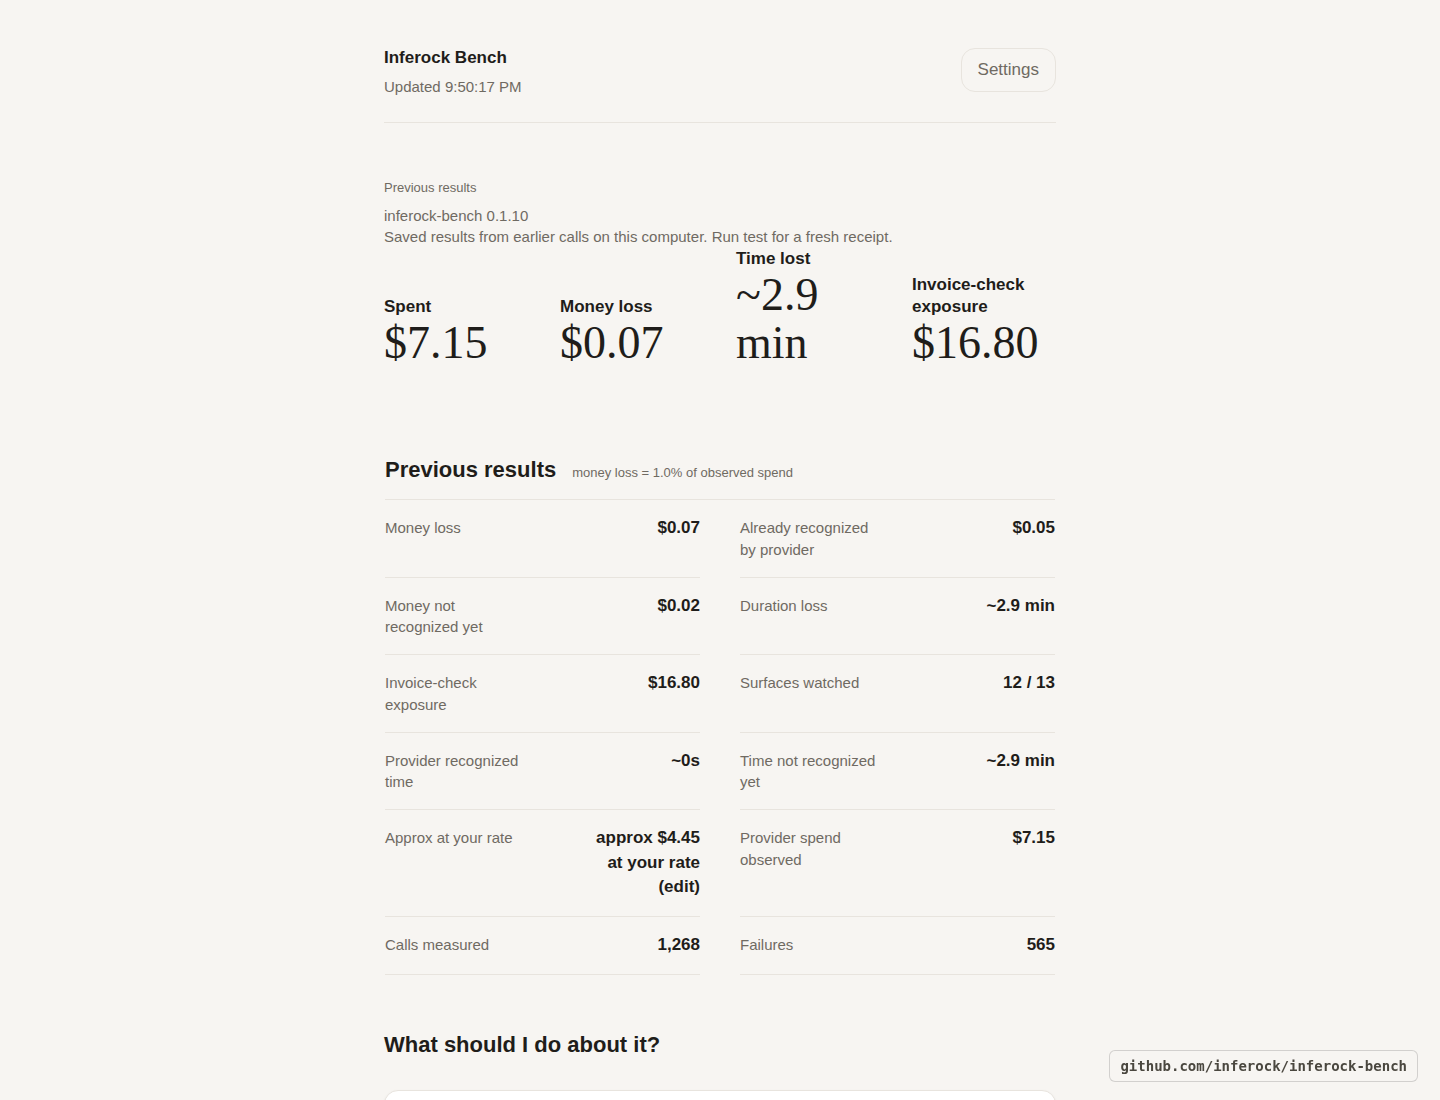
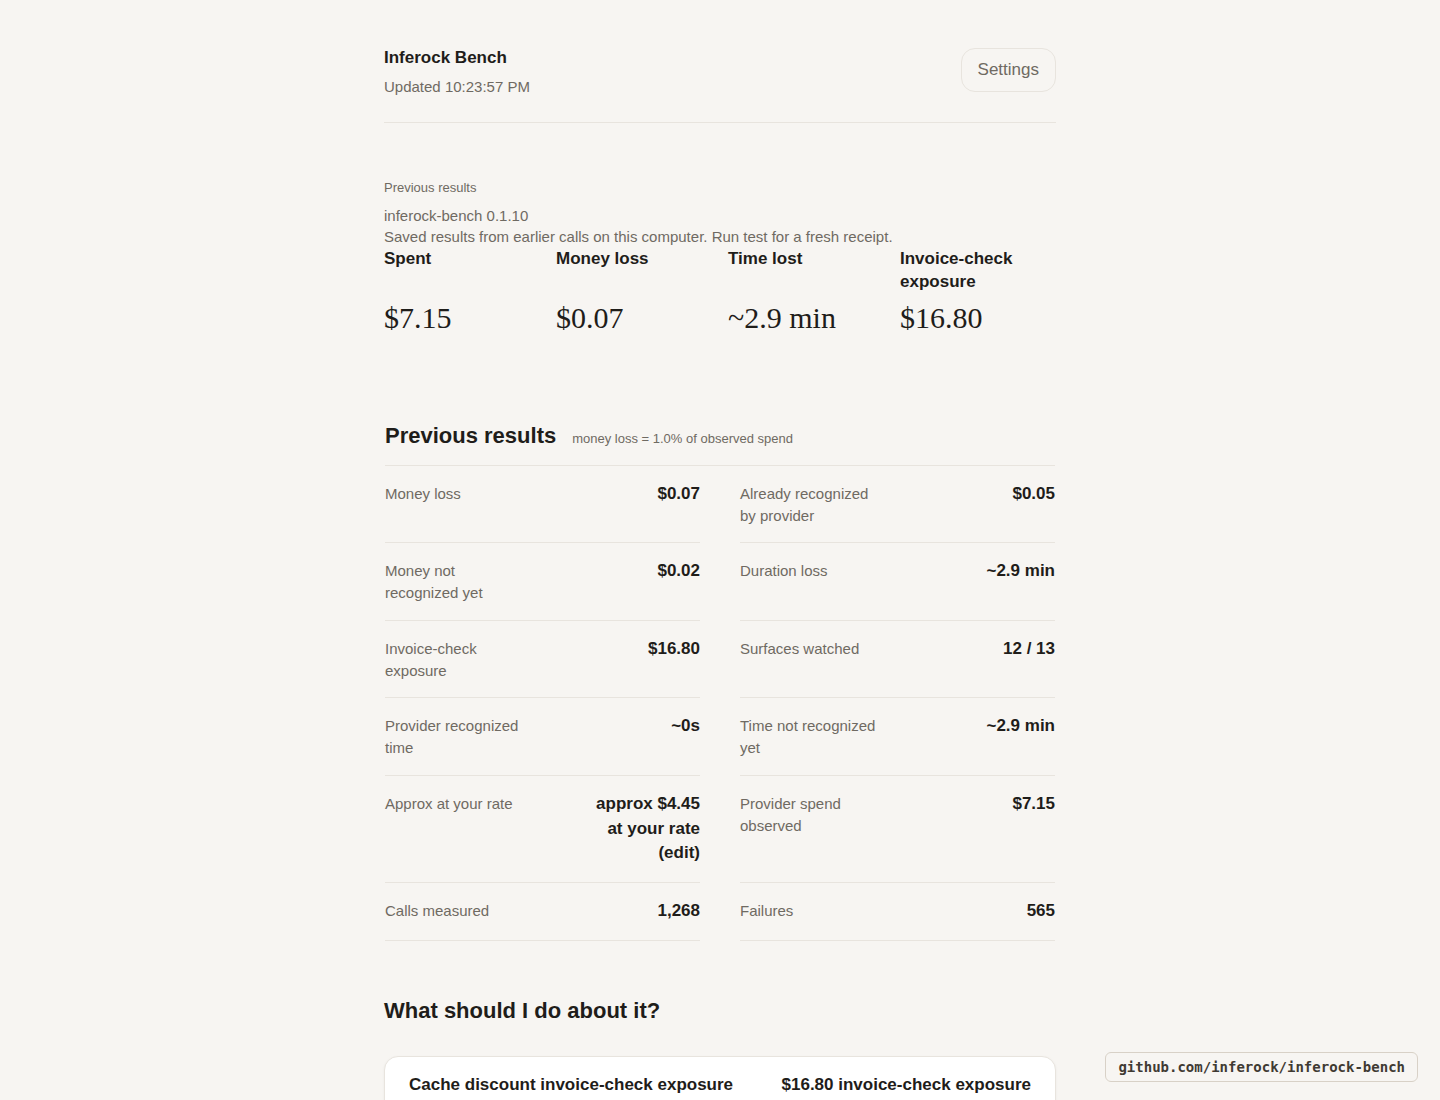
Publish inferock-bench 0.1.10 — 0.1.10: bill-bounded money loss (headline can never exceed observed spend), spend-first headline (`spent $X · money loss $Y · time loss Z · invoice-check exposure $E`), cache-discount-at-risk split into a separate labeled invoice-check exposure detail line, staleness 

diff --git a/apps/inferock-bench/src/dashboard.ts b/apps/inferock-bench/src/dashboard.ts
@@ -738,14 +738,31 @@ export function renderDashboardHtml(): string {
     .receipt-hero {
       display: grid;
       grid-template-columns: repeat(4, minmax(0, 1fr));
-      gap: var(--space-4);
-      align-items: end;
+      gap: var(--space-2);
+      align-items: stretch;
     }
-    .receipt-hero .label {
+    .headline-card {
+      min-width: 0;
+      display: flex;
+      flex-direction: column;
+      justify-content: flex-end;
+      gap: var(--space-1);
+    }
+    .headline-card-label {
+      min-height: 2.7em;
+      display: flex;
+      align-items: flex-start;
       margin-bottom: var(--space-0);
       color: var(--ink);
       font-size: var(--type-body);
       font-weight: var(--weight-semibold);
+    }
+    .headline-card-value {
+      max-width: 100%;
+      overflow-wrap: normal;
+      white-space: nowrap;
+      word-break: normal;
+      font-size: var(--type-section);
     }
     .summary-secondary-line {
       display: block;
@@ -786,6 +803,11 @@ export function renderDashboardHtml(): string {
       .receipt-ledger {
         grid-template-columns: repeat(2, minmax(0, 1fr));
         column-gap: var(--space-5);
+      }
+    }
+    @media (max-width: 760px) {
+      .receipt-hero {
+        grid-template-columns: repeat(2, minmax(0, 1fr));
       }
     }
     .ledger-row:last-child { border-bottom: var(--border-size) solid var(--hairline); }
@@ -1222,22 +1244,22 @@ export function renderDashboardHtml(): string {
         <p class="small muted" id="receiptModeNote" data-testid="receipt-mode-note" hidden></p>
         <div class="run-history-list" id="previousRunList" data-testid="previous-run-list" hidden></div>
         <div class="receipt-hero">
-          <div>
-            <div class="label">Spent</div>
-            <strong class="money-headline" id="receiptSpentHeadline" data-testid="spent-headline">$0.00</strong>
-          </div>
-          <div>
-            <div class="label">Money loss</div>
-            <strong class="money-headline" id="receiptMoneyLossHeadline" data-testid="money-headline-standard">$0.00</strong>
-          </div>
-          <div>
-            <div class="label">Time lost</div>
-            <strong class="money-headline" id="receiptTimeLossHeadline" data-testid="time-headline">~0s</strong>
-          </div>
-          <div>
-            <div class="label">Invoice-check exposure</div>
-            <strong class="money-headline" id="receiptInvoiceCheckExposureHeadline" data-testid="invoice-check-exposure-headline">$0.00</strong>
-          </div>
+          <article class="headline-card">
+            <div class="headline-card-label label">Spent</div>
+            <strong class="headline-card-value money-headline" id="receiptSpentHeadline" data-testid="spent-headline">$0.00</strong>
+          </article>
+          <article class="headline-card">
+            <div class="headline-card-label label">Money loss</div>
+            <strong class="headline-card-value money-headline" id="receiptMoneyLossHeadline" data-testid="money-headline-standard">$0.00</strong>
+          </article>
+          <article class="headline-card">
+            <div class="headline-card-label label">Time lost</div>
+            <strong class="headline-card-value money-headline" id="receiptTimeLossHeadline" data-testid="time-headline">~0s</strong>
+          </article>
+          <article class="headline-card">
+            <div class="headline-card-label label">Invoice-check exposure</div>
+            <strong class="headline-card-value money-headline" id="receiptInvoiceCheckExposureHeadline" data-testid="invoice-check-exposure-headline">$0.00</strong>
+          </article>
         </div>
       </section>
 

diff --git a/apps/inferock-bench/src/dashboard.test.ts b/apps/inferock-bench/src/dashboard.test.ts
@@ -50,6 +50,10 @@ describe("dashboard", () => {
     expect(htmlText).toContain("Surfaces watched");
     expect(htmlText).toContain("data-testid=\"money-loss-spend-share\"");
     expect(htmlText).toContain("data-testid=\"invoice-check-exposure-headline\"");
+    expect(htmlText.match(/class="headline-card"/g) ?? []).toHaveLength(4);
+    expect(htmlText.match(/class="headline-card-value money-headline"/g) ?? []).toHaveLength(4);
+    expect(htmlText).toContain(".headline-card-value");
+    expect(htmlText).toContain("white-space: nowrap;");
     expect(htmlText).toContain("data-testid=\"receipt-invoice-check-exposure\"");
     expect(htmlText).toContain("What should I do about it?");
     expect(htmlText).toContain("data-testid=\"exposure-card\"");

diff --git a/assets/PROVENANCE.md b/assets/PROVENANCE.md
@@ -37,13 +37,14 @@ Use this manifest as an evidence ledger, not a gallery. Each entry should say wh
 
 - public-run-id: `inferock-bench-0.1.10-cumulative-ledger-2026-07-09-through-run15-2026-07-10`.
 - package-version: `inferock-bench` 0.1.10.
-- source: Playwright screenshot of the local dashboard loaded from the cumulative event store after prior results opened and the fade-in animation settled. Watermark overlaid during capture.
+- source: Playwright screenshot of the local dashboard loaded from the rebuilt cumulative event store after prior results opened and the fade-in animation settled; re-rendered after the headline-card nowrap fix. Store assembly used 107 newrun events plus 1,162 run15 extracted-store events with the run15 seed/carry-forward row `speedtest_20f50256-1816-4078-97af-2b9582c15c44` dropped. Watermark overlaid during capture.
 - traffic-summary: 1,268 measured calls since 2026-07-09 across OpenAI, Anthropic, Gemini Developer API, and pinned OpenRouter endpoints; 565 failures/signals; observed spend `$7.15`; bill-bounded money loss `$0.07` (stored exact `$0.073875`); provider-recognized `$0.05`; recognition gap `$0.02`; time loss `~2.9 min`; at-rate translation `$4.449810`; invoice-check exposure `$16.80` across 202 signals; surfaces watched 12/13. Invoice-check exposure is separate and not summed into money loss.
+- capture-hash: `sha256:37d604d422ea9177b41b1775b0b547708a5ff0480a371968bde1e10f17687c97` (`dashboard-real-traffic.png`, 96,230 bytes).
 - asset-dimensions: 1440 x 1100 PNG.
 - asset-masking: key panel hidden; no `ibl_`/`sk-` strings; no `/home/*`, `/Users/*`, or `ec2-user`; `~/.inferock-bench` rendered instead where paths appear; watermark is `github.com/inferock/inferock-bench`.
 - masking-check: provider-key panel hidden and rendered pixels checked for local bench keys, provider keys, host-user paths, settled dashboard state, four-element headline, and watermark correctness.
 - human-sign-off: pending user sign-off, 2026-07-10.
-- masked-verified: 2026-07-10 by conductor visual inspection (24th lineage; 4-element headline, % line, exposure detail, ~ paths, watermark, zero key shapes confirmed per-image)
+- masked-verified: 2026-07-10 by conductor visual inspection (24th lineage; card alignment four-criteria check + masking, post user-caught wrap fix)
 
 ### `receipt-real-traffic.png`
 

diff --git a/docs/public-run-2026-07-10.md b/docs/public-run-2026-07-10.md
@@ -89,7 +89,7 @@ The cumulative render store was assembled from the 2026-07-09 component plus run
 - Current-code cumulative compact receipt hash after public path/watermark masking: `sha256:273d92698595c49feb495f6b05280b4356c5b8b83fdad8cf9d1e7aeedab67ee0` (`cumulative-receipt-compact.txt`, 6,787 bytes).
 - Current-code cumulative share-card hash: `sha256:9f60d0afb73ad1131d8fcb93a0651d5357243e01bfe647823e7759883764a34c` (`cumulative-share-card.txt`, 1,795 bytes).
 - Public capture hash: `sha256:b331f9d2d6cc63c4a01b581c054f826027eda17eee26acbbcc0836c4c13cc7f5` (`assets/receipt-real-traffic.png`, 533,898 bytes).
-- Public capture hash: `sha256:f921afb63d18a8a09fe19ef6c67c567a882b2a85b3b52458c93eb5d6fa59de1d` (`assets/dashboard-real-traffic.png`, 92,431 bytes).
+- Public capture hash: `sha256:37d604d422ea9177b41b1775b0b547708a5ff0480a371968bde1e10f17687c97` (`assets/dashboard-real-traffic.png`, 96,230 bytes).
 - Public capture hash: `sha256:e1d5f96c49d28636fc53a53f803e367df8eb186f1a2077a290f3e62cfc02afc6` (`assets/bench-demo.gif`, 265,014 bytes).
 
 The cumulative current-code receipt renders the four-element headline: `spent $7.15 · money loss $0.07 · time loss ~2.9 min · invoice-check exposure $16.80`. It also renders `money loss = 1.0% of observed spend` and `cache discount at risk -- verify your invoice: 202 invoice exposures, $16.80`.